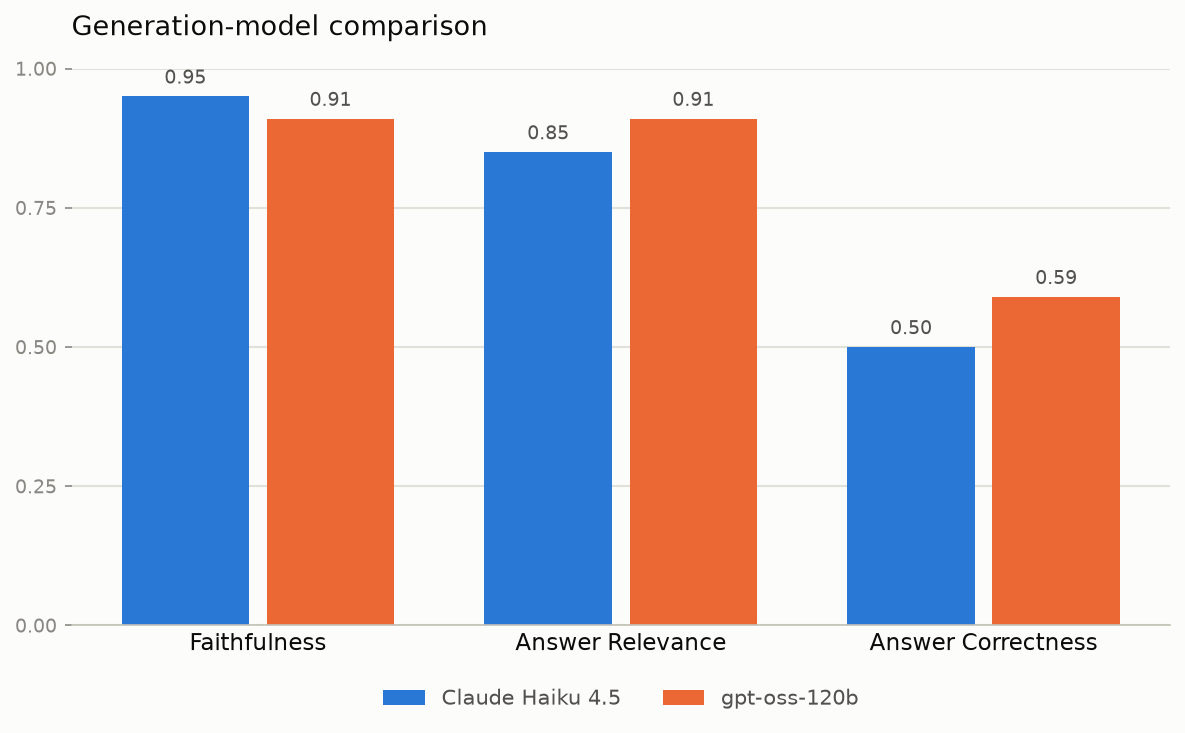
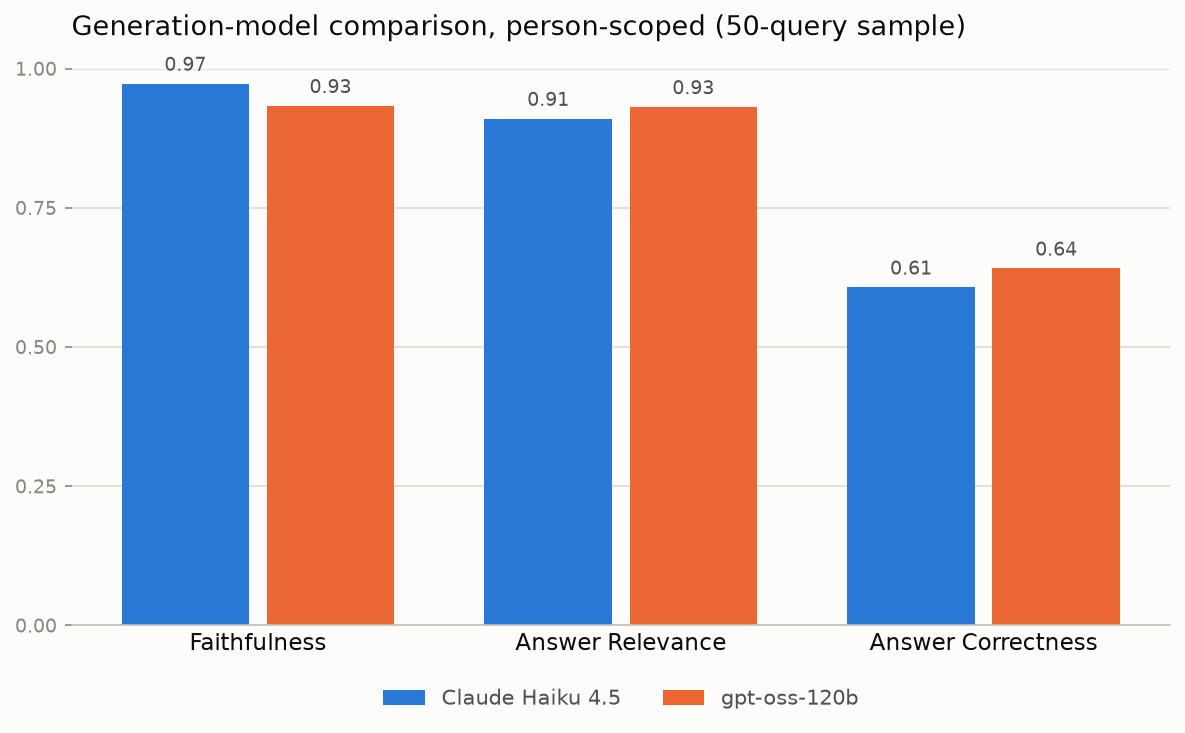
regenerate generation-comparison chart with person-scoped 50-query results

diff --git a/scripts/generate_benchmark_charts.py b/scripts/generate_benchmark_charts.py
@@ -147,10 +147,10 @@ def main() -> None:
     grouped_bar_chart(
         metrics=["Faithfulness", "Answer Relevance", "Answer Correctness"],
         series={
-            "Claude Haiku 4.5": [0.95, 0.85, 0.50],
-            "gpt-oss-120b": [0.91, 0.91, 0.59],
+            "Claude Haiku 4.5": [0.973, 0.910, 0.607],
+            "gpt-oss-120b": [0.933, 0.931, 0.641],
         },
-        title="Generation-model comparison",
+        title="Generation-model comparison, person-scoped (50-query sample)",
         output_filename="generation_comparison.png",
     )
 
